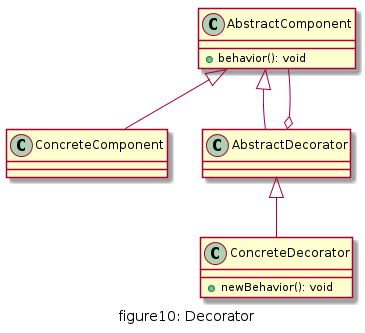
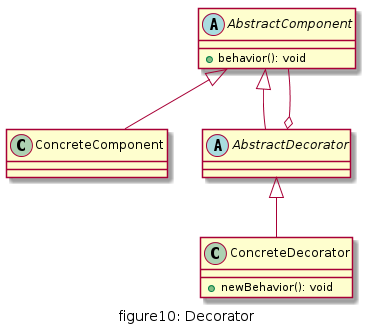
add iterator and change uml before

Changed region(s): [[0.5425, 0.3904, 0.9644, 0.4805], [0.5425, 0.03, 0.9644, 0.1201]]

diff --git a/code/17_iterator/iterator_types.h b/code/17_iterator/iterator_types.h
@@ -1,0 +1,53 @@
+#pragma once
+#include <iostream>
+#include <string>
+#include <vector>
+
+class Iterator{
+public:
+    virtual int next()=0;
+    virtual bool hasNext()=0;
+};
+
+class Aggregate{
+public:
+    virtual Iterator* createIterator()=0;
+};
+
+class Post{
+public:
+    Post(std::string cont):m_content(cont){
+
+    }
+    void show(){
+        std::cout<<m_content<<std::endl;
+    }
+private:
+    std::string m_content;
+};
+
+class PostBox;
+class PostIterator: public Iterator{
+public:
+    PostIterator(PostBox* bx);
+    int next();
+    bool hasNext();
+private:
+    PostBox* box;
+    int index;
+    int total;
+};
+
+
+
+class PostBox: public Aggregate{
+public:    
+    PostBox(std::vector<Post*> list):postList(list){
+
+    }
+    Iterator* createIterator();
+    void switchAndShow(int index);
+    int totalSize();
+private:
+    std::vector<Post*> postList;    
+};

diff --git a/code/17_iterator/client.cpp b/code/17_iterator/client.cpp
@@ -1,0 +1,31 @@
+#include <iostream>
+
+#include "iterator_types.h"
+
+void mysleep(int count);
+
+int main(){
+    std::cout<<"Iterator pattern case:"<<std::endl;
+    std::vector<Post*> list;
+    list.push_back(new Post("Post 1"));
+    list.push_back(new Post("Post 2"));
+    list.push_back(new Post("Post 3"));
+    list.push_back(new Post("Post 4"));
+    list.push_back(new Post("Post 5"));
+    
+    PostBox* box = new PostBox(list);
+    Iterator* iter = box->createIterator();
+
+    while(iter->hasNext()){
+       box->switchAndShow(iter->next());
+       mysleep(10000);
+    }
+
+    return 0;
+}
+
+void mysleep(int count){
+    for(int i=0;i<count;i++){
+
+    }
+}

diff --git a/code/17_iterator/iterator_types.cpp b/code/17_iterator/iterator_types.cpp
@@ -1,0 +1,32 @@
+#include "iterator_types.h"
+
+PostIterator::PostIterator(PostBox* bx):box(bx),index(0),total(1){
+    if(bx){
+        this->total = bx->totalSize();
+    }
+}
+
+int PostIterator::next(){
+    int temp = this->index;
+    this->index = (++this->index) % this->total;
+    return temp;
+}
+
+bool PostIterator::hasNext(){
+
+    return true;
+}
+
+// PostBox
+Iterator* PostBox::createIterator(){
+
+    return new PostIterator(this);
+}
+
+void PostBox::switchAndShow(int index){
+    this->postList.at(index)->show();
+}
+
+int PostBox::totalSize(){
+    return this->postList.size();
+}

diff --git a/doc/18-迭代器.md b/doc/18-迭代器.md
@@ -1,0 +1,40 @@
+# 迭代器
+
+提供一个对象来顺序访问聚合对象中的一系列数据，而不暴露聚合对象的内部表示
+
+
+## UML
+
+* 抽象迭代器(Iterator)角色：定义访问和遍历聚合元素的接口，通常包含 hasNext()、first()、next() 等方法。
+* 具体迭代器(ConcreteIterator)角色：实现抽象迭代器接口中所定义的方法，完成对聚合对象的遍历，记录遍历的当前位置
+* 抽象聚合(Aggregate)角色：定义存储、添加、删除聚合对象以及创建迭代器对象的接口。
+* 具体聚合(ConcreteAggregate)角色：实现抽象聚合类，返回一个具体迭代器的实例。
+
+![figure17_iterator](img/figure17_iterator.png)
+
+## 优缺点
+
+* 优点
+  * 访问一个聚合对象的内容而无须暴露它的内部表示
+  * 遍历任务交由迭代器完成，这简化了聚合类
+  * 它支持以不同方式遍历一个聚合，甚至可以自定义迭代器的子类以支持新的遍历   
+  * 迭代器模式中引入抽象层，易于增加新的迭代器类，便于扩展，符合开闭原则
+
+
+* 缺点
+  * 增加了类的个数，这在一定程度上增加了系统的复杂性
+
+
+## 使用场景
+
+* 访问一个聚合对象而无需暴露它的内部结构
+* 需要为一个聚合对象提供多种遍历方法
+
+## 用例
+
+现在机械可滚动的广告箱生活中还是能见到,比如公交站台上可滚动的广告箱;
+用户可以看到上面展示的广告宣传画布每隔一定时间滚动切换至下一幅广告. 用户并不关心这些广告是怎么存储以及结构是啥, 用户关注的是周期展示的广告画.
+
+![figure17_iterator_case](img/figure17_iterator_case.png)
+
+[code](../code/17_iterator)
